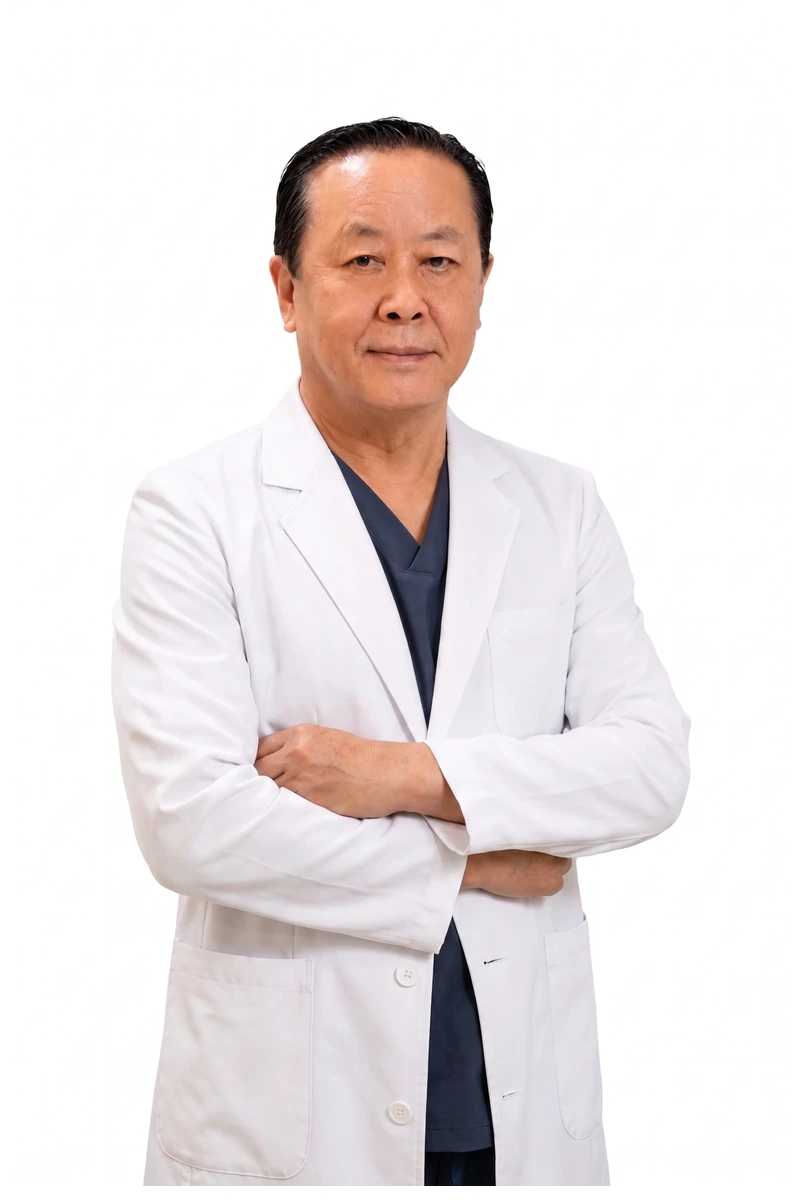
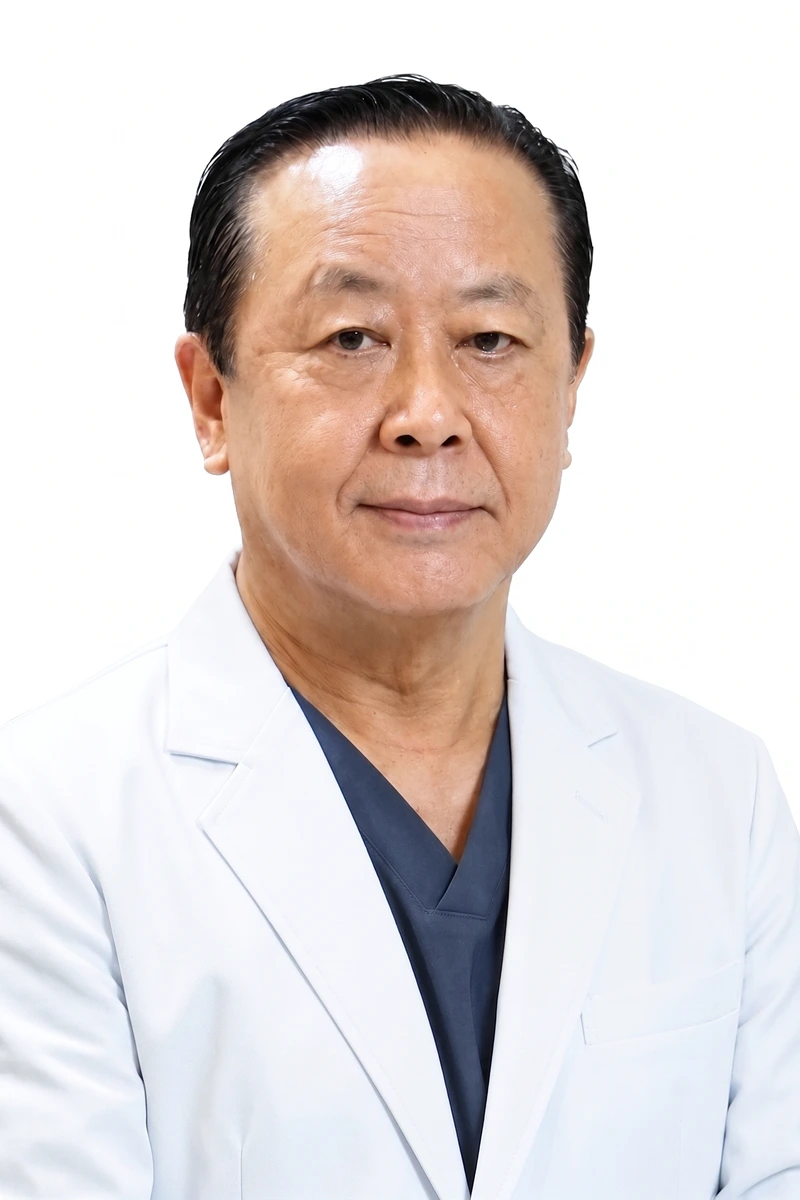
의료진 사진·영문명(Minsoo Kwon) 통일+301, 지역64p 주차·버스·조사·중복단어, 협력단체 4개 갤러리, 설치코드 점검

diff --git a/src/data/clinic.ts b/src/data/clinic.ts
@@ -297,6 +297,7 @@ export const CLINIC = {
 export type Doctor = {
   slug: string
   name: string
+  nameEn?: string   // §D1: 화면·학술 표기용 영문명 (권민수=Minsoo Kwon 논문 표기 통일)
   role: string
   titleLine: string
   specialties: string[]   // 잘하는 진료 (인링크용 treatment slug)
@@ -315,6 +316,7 @@ export const DOCTORS: Doctor[] = [
   {
     slug: 'kwon-jongjin',
     name: '권종진',
+    nameEn: 'Jongjin Kwon',
     role: '명예원장',
     titleLine: '구강악안면외과 전문의 / 치의학 박사',
     specialties: ['implant', 'surgery', 'tmj'],
@@ -343,8 +345,9 @@ export const DOCTORS: Doctor[] = [
     cardLine: '서울대학교 치의학박사 · 고려대학교 의과대학 명예교수',  // §D1: 카드 3번째 줄
   },
   {
-    slug: 'kwon-minsu',
+    slug: 'kwon-minsoo',
     name: '권민수',
+    nameEn: 'Minsoo Kwon',
     role: '대표원장',
     titleLine: '구강악안면외과 · 통합치의학과 전문의',
     specialties: ['implant', 'surgery', 'tmj'],
@@ -376,13 +379,14 @@ export const DOCTORS: Doctor[] = [
     ],
     // §B 필터: 약점(심미/라미네이트) 노출 X → 강점(수술·외과·교수경력) 리프레이밍. 철학은 자료 원문
     intro: '어려운 치료도, 환자분이 이해하고 안심할 수 있게 설명하는 것을 목표로 합니다. 구강악안면외과 전문의로서 고난도 임플란트 수술, 매복 사랑니, 턱관절 등 외과 영역에 깊이를 두고, 경희대학교 치과병원 외래교수로 후학을 가르쳐 온 경험을 진료에 녹여냅니다. 통합치의학과 전문의 관점에서 입안 전체의 상태를 함께 살펴 오래 안정적인 치료를 지향하며, 환자가 두려워하는 진료일수록 더 차분하고 정밀하게 다가가고, 필요한 경우 의식하진정법(수면치료)을 병행해 불안과 부담을 줄입니다.',
-    photo: '/static/img/kwon-minsu-profile.webp',
+    photo: '/static/img/kwon-minsoo-profile.webp',
     imgPos: 'object-position:center top',   // §M1: 얼굴검출 재크롭으로 통일 → 공통 프레이밍
     isHead: true,
   },
   {
     slug: 'bae-suhyeon',
     name: '배수현',
+    nameEn: 'Suhyeon Bae',
     role: '보철과 원장',
     titleLine: '치과보철과 전문의 / 치의학 박사',
     specialties: ['prosthetics', 'esthetic', 'denture'],
@@ -439,7 +443,7 @@ export const TREATMENTS: Treatment[] = [
     icon: 'screwdriver-wrench',
     core: true,
     keywords: ['약수역 임플란트', '신당동 임플란트', '중구 임플란트', '임플란트 재수술', '뼈이식 임플란트', '전체 임플란트', '상악동 거상술'],
-    doctors: ['kwon-minsu'],
+    doctors: ['kwon-minsoo'],
     intro: '임플란트는 단순히 나사를 심는 시술이 아니라, 잇몸뼈와 신경, 부비동, 그리고 맞물리는 치아까지 함께 읽어내는 외과적 판단의 영역입니다. 365올케어치과는 구강악안면외과 전문의가 직접 진단과 수술을 맡아, 뼈가 부족하거나 신경에 가까운 까다로운 케이스에서도 무리한 진행 대신 정밀한 계획을 우선합니다.',
     sections: [
       { h: '왜 전문의 임플란트인가', p: '임플란트의 성패는 식립 그 자체보다 식립 이전의 진단에서 갈립니다. 잇몸뼈의 양과 질, 하치조신경과의 거리, 상악동(부비동)의 위치를 입체적으로 파악해야 안전한 식립이 가능합니다. 365올케어치과는 구강악안면외과 전문의가 진단·수술·보철의 전 과정을 일관되게 책임지며, 외과적으로 난도가 높은 케이스도 단계적으로 접근합니다.' },
@@ -486,7 +490,7 @@ export const TREATMENTS: Treatment[] = [
     icon: 'teeth',
     core: true,
     keywords: ['약수역 교정', '신당동 치아교정', '중구 교정치과', '투명교정', '성인교정'],
-    doctors: ['kwon-minsu'],
+    doctors: ['kwon-minsoo'],
     intro: '교정은 치아를 가지런히 하는 것을 넘어, 위아래 턱이 바르게 맞물려 잘 씹고 오래 건강하게 쓰도록 만드는 과정입니다. 365올케어치과는 단순히 보이는 부분만이 아니라 교합과 기능, 잇몸 건강까지 함께 고려해 환자에게 맞는 교정 방법을 제안합니다. 약수역 5번 출구에서 도보 1분 거리에서, 성장기 아이부터 성인까지 진단부터 유지관리까지 한곳에서 이어갑니다.',
     sections: [
       { h: '진단이 먼저입니다', p: '같은 덧니라도 원인은 다릅니다. 위아래 턱뼈의 크기·위치 차이에서 온 골격성 문제인지, 치아가 들어설 공간이 부족한 배열의 문제인지, 혀를 내미는 습관이나 입으로 숨 쉬는 버릇에서 비롯된 것인지를 엑스레이·3D 영상과 모형으로 정확히 파악한 뒤에야 올바른 계획이 나옵니다. 무작정 장치를 붙이기보다, 왜 이렇게 되었는지와 어디까지 개선할 수 있는지를 먼저 설명드립니다.' },
@@ -573,7 +577,7 @@ export const TREATMENTS: Treatment[] = [
     icon: 'moon',
     core: true,
     keywords: ['약수역 수면치과', '수면진료', '공포 치과진료', '구역반사 치과'],
-    doctors: ['kwon-minsu'],
+    doctors: ['kwon-minsoo'],
     // §N8(수면사고 이슈 대응): '잠든 사이 마친다'식 표현 배제 → 사전 문진·전신 스크리닝·응급 대응 장비(AED)·전문의 상시 확인 강조로 보수적 정정
     intro: '치과에 대한 두려움이 크거나, 구역반사가 심하거나, 한 번에 긴 진료가 필요한 경우 수면진료(의식하진정)가 도움이 됩니다. 365올케어치과는 사전 문진과 전신 상태 스크리닝을 거친 뒤 진행하며, 진정 진료 전용 세팅과 응급 대응 장비(AED·응급키트)를 상시 갖추고 있습니다. 약수역 5번 출구 인근에서 구강악안면외과 전문의가 진료 중 환자의 상태를 직접 확인합니다.',
     sections: [
@@ -613,7 +617,7 @@ export const TREATMENTS: Treatment[] = [
     icon: 'face-grimace',
     core: false,
     keywords: ['약수역 턱관절', '턱관절 치료', '턱에서 소리', '관절강내 주사'],
-    doctors: ['kwon-minsu'],
+    doctors: ['kwon-minsoo'],
     intro: '턱에서 소리가 나거나, 통증이 있거나, 입이 잘 벌어지지 않는 턱관절 질환은 원인이 다양합니다. 365올케어치과는 약수역 인근에서 구강악안면외과 전문의가 원인을 진단하고, 생활 습관 교정부터 장치 치료, 필요 시 관절강내 주사까지 무리하지 않고 단계적으로 접근합니다.',
     sections: [
       { h: '원인을 먼저 찾습니다', p: '턱관절 증상은 이갈이, 이악물기, 한쪽으로만 씹는 습관, 거북목 등의 자세, 스트레스, 외상 등 여러 요인이 얽혀 나타납니다. 같은 "턱 통증"이라도 근육의 문제인지 관절 자체의 문제인지에 따라 접근이 달라집니다. 그래서 365올케어치과는 무리한 처치를 서두르기보다 증상의 양상과 생활 습관을 함께 살펴 원인을 파악하는 것을 먼저로 둡니다.' },
@@ -650,7 +654,7 @@ export const TREATMENTS: Treatment[] = [
     icon: 'tooth',
     core: false,
     keywords: ['약수역 충치치료', '신경치료', '약수역 치과', '충치'],
-    doctors: ['kwon-minsu'],
+    doctors: ['kwon-minsoo'],
     intro: '충치와 신경치료는 자연치아를 최대한 살리는 보존 진료의 핵심입니다. 365올케어치과는 약수역 인근에서 통합치의학과 전문의가 충치의 깊이를 정확히 진단해 과하지 않게, 그러나 놓치지 않게 치료합니다. 한 분의 입안을 하나의 그림으로 보며, 지금 필요한 치료와 지켜봐도 되는 부분을 함께 안내합니다.',
     sections: [
       { h: '자연치아가 우선입니다', p: '아무리 좋은 보철도 건강한 자연치아만 못합니다. 그래서 발치나 큰 치료를 서두르기보다, 살릴 수 있는 치아를 먼저 살리는 것을 원칙으로 둡니다. 충치의 진행 정도와 신경까지의 거리, 치아의 남은 구조를 정확히 판단해 필요한 만큼만 삭제하고 보존합니다. 과잉 진료 없이, 그러나 놓치면 더 커질 문제는 분명히 짚어 드립니다.' },
@@ -687,7 +691,7 @@ export const TREATMENTS: Treatment[] = [
     icon: 'shield-halved',
     core: false,
     keywords: ['약수역 잇몸치료', '치주치료', '잇몸 붓기', '풍치'],
-    doctors: ['kwon-minsu'],
+    doctors: ['kwon-minsoo'],
     intro: '잇몸 질환(치주염)은 치아를 잃는 주요 원인이지만 초기에는 증상이 뚜렷하지 않습니다. 365올케어치과는 약수역 인근에서 통합치의학과 전문의가 잇몸 상태를 점검하고, 정기적인 관리와 단계에 맞는 치료로 자연치아를 오래 쓰도록 돕습니다. 잇몸은 치아를 지탱하는 토대인 만큼, 미리 챙기는 것이 가장 효율적인 치료입니다.',
     sections: [
       { h: '소리 없이 진행됩니다', p: '잇몸 질환의 가장 큰 특징은 통증 없이 서서히 진행된다는 점입니다. 잇몸 표면의 가벼운 염증(치은염)에서 시작해, 치아를 지지하는 잇몸뼈가 녹는 치주염으로 진행되어도 한참 동안 뚜렷한 증상이 없는 경우가 많습니다. 그래서 "아프지 않으니 괜찮다"고 여기다 뼈가 상당히 녹은 뒤에야 발견되기도 합니다. 정기 검진과 스케일링으로 미리 관리하는 것이 중요한 이유입니다.' },
@@ -799,7 +803,7 @@ export const TREATMENTS: Treatment[] = [
     icon: 'syringe',
     core: false,
     keywords: ['약수역 사랑니', '사랑니 발치', '매복 사랑니', '구강외과'],
-    doctors: ['kwon-minsu'],
+    doctors: ['kwon-minsoo'],
     intro: '누워 있는 매복 사랑니, 신경에 가까운 사랑니 등 외과적 판단이 필요한 발치는 구강악안면외과 전문의가 안전하게 진행합니다. 발치뿐 아니라 잇몸·뼈와 관련된 작은 외과 처치, 낭종 같은 병변까지 전문의가 영상으로 신경·혈관과의 거리를 확인한 뒤 정밀하게 접근합니다. 약수역 5번 출구 1분 거리에서, 무섭게 느껴지는 외과 진료를 차근차근 설명하며 진행합니다.',
     sections: [
       { h: '전문의 발치의 안정감', p: '매복 사랑니는 아래쪽 신경(하치조신경)이나 위쪽 부비동에 가까운 경우가 많아, 잘못 접근하면 신경 손상이나 감각 저하 위험이 있습니다. 그래서 발치 전 파노라마·필요 시 3D CT 영상으로 사랑니와 신경·혈관의 위치 관계를 정확히 파악하는 것이 중요합니다. 구강악안면외과 전문의가 영상 분석으로 안전을 먼저 확인한 뒤, 치아를 무리하게 빼지 않고 필요한 만큼 나누어 부담을 줄이는 방식으로 진행합니다.' },
@@ -1000,7 +1004,7 @@ export type SeoArea = {
 
 export const SEO_AREAS: SeoArea[] = [
   // ── tier 1 : 약수역 도보·생활권 ──
-  { slug: 'yaksu',      name: '약수역',   adminArea: '서울특별시 중구 신당동',   transit: '3·6호선 약수역 5번 출구 도보 1분', access: '도보 1분 거리', tier: 1 },
+  { slug: 'yaksu',      name: '약수역',   adminArea: '서울특별시 중구 신당동',   transit: '3·6호선 약수역 5번 출구 도보 1분', access: '도보 1분', tier: 1 },
   { slug: 'sindang',    name: '신당동',   adminArea: '서울특별시 중구 신당동',   transit: '6호선 신당역에서 한 정거장',        access: '지하철 1정거장 · 약 5분', tier: 1 },
   { slug: 'cheonggu',   name: '청구동',   adminArea: '서울특별시 중구 청구동',   transit: '5·6호선 청구역에서 한 정거장',      access: '지하철 1정거장 · 약 5분', tier: 1 },
   { slug: 'jangchung',  name: '장충동',   adminArea: '서울특별시 중구 장충동',   transit: '약수역에서 차량 5분 · 버스 직행',   access: '차량 5분', tier: 1 },

diff --git a/src/routes/seo.ts b/src/routes/seo.ts
@@ -48,7 +48,7 @@ export async function sitemap(env: Bindings): Promise<string> {
     img: [{ url: `${BASE}/og/treatment/${t.slug}.svg`, title: `${t.name} - ${CLINIC.name}` }],
   }))
   // 의료진 (사진 포함)
-  ;['kwon-minsu', 'kwon-jongjin', 'bae-suhyeon'].forEach(s => urls.push({
+  ;['kwon-minsoo', 'kwon-jongjin', 'bae-suhyeon'].forEach(s => urls.push({
     loc: `/doctors/${s}`, pri: '0.7', freq: 'monthly',
     img: [{ url: `${BASE}/static/img/${s}.webp` }],
   }))
@@ -272,6 +272,26 @@ ${TREATMENTS.map(t => `- [${t.name}](${BASE}/treatments/${t.slug})`).join('\n')}
 }
 
 // ════════════════ 지역 SEO 페이지 /area/:combo ════════════════
+// ── 한국어 조사 자동 처리 (§지역페이지 1차: '을/를' 오류 일괄 수정) ──
+// 마지막 글자 받침 유무로 을/를 판별. 임플란트·치아교정·심미보철=받침○→을, 수면진료=받침✕→를
+function eulReul(word: string): '을' | '를' {
+  const last = word.charCodeAt(word.length - 1)
+  if (last < 0xac00 || last > 0xd7a3) return '를' // 한글 아니면 기본 '를'
+  return (last - 0xac00) % 28 === 0 ? '를' : '을'
+}
+// '거리' 중복 방지: area.access 값이 이미 '거리'로 끝나면 '거리'를 덧붙이지 않음
+function withGeori(access: string): string {
+  return /거리$/.test(access.trim()) ? access : `${access} 거리`
+}
+// '진료' 중복 방지: tx.name이 '진료'로 끝나면(수면진료) '진료' 표현 대신 '를 함께 봅니다'
+function txClause(txName: string): string {
+  return /진료$/.test(txName) ? `${txName}${eulReul(txName)} 함께 봅니다` : `${txName} 진료를 협진합니다`
+}
+// '수면진료 진료' 같은 '진료 진료' 중복 방지 — 뒤에 '진료' 붙일 때 사용
+function txWithJinryo(txName: string): string {
+  return /진료$/.test(txName) ? txName : `${txName} 진료`
+}
+
 export function AreaPage(combo: string) {
   // combo = "yaksu-implant"
   const parts = combo.split('-')
@@ -287,8 +307,11 @@ export function AreaPage(combo: string) {
   // 지역 특화 FAQ (AEO — 로컬 검색 질문 대응)
   const areaFaqs = [
     { q: `${area.name}에서 365올케어치과까지 어떻게 가나요?`, a: `${area.transit} 위치이며, ${area.name} 기준 ${area.access}입니다. 서울 중구 동호로 171 더그레이스빌딩 4층(약수역 5번 출구 스타벅스 건물)입니다.` },
-    { q: `${area.name}에서 가까운 ${tx.name} 치과를 찾고 있어요.`, a: `약수역 365올케어치과는 ${area.name}에서 ${area.access} 거리로, 구강악안면외과·치과보철과·통합치의학과 전문의가 ${tx.name} 진료를 협진합니다. 예약 문의는 ${CLINIC.phone}.` },
-    { q: `직장인인데 ${area.name} 근처에서 야간에 ${tx.name} 진료가 가능한가요?`, a: `네, 365올케어치과는 월·화·목요일 저녁 20:30까지 야간진료를 운영합니다. ${area.name}에서 퇴근 후 내원하시기 편리합니다.` },
+    { q: `${area.name}에서 가까운 ${tx.name} 치과를 찾고 있어요.`, a: `약수역 365올케어치과는 ${area.name}에서 ${withGeori(area.access)}로, 구강악안면외과·치과보철과·통합치의학과 전문의가 ${txClause(tx.name)}. 예약 문의는 ${CLINIC.phone}.` },
+    { q: `직장인인데 ${area.name} 근처에서 야간에 ${txWithJinryo(tx.name)}가 가능한가요?`, a: `네, 365올케어치과는 월·화·목요일 저녁 20:30까지 야간진료를 운영합니다. ${area.name}에서 퇴근 후 내원하시기 편리합니다.` },
+    // §지역페이지 1차: 주차 안내 FAQ 공통 추가
+    { q: '차를 가지고 가도 주차할 수 있나요?', a: '네, 건물 뒤편 무료 주차장을 이용하실 수 있습니다. 다만 자주식과 기계식이 함께 있어 대형 세단이나 큰 SUV는 자리가 맞지 않을 수 있습니다. 이 경우 인근 공영주차장을 이용해 주시면 됩니다. 평일 낮에는 주차 관리자가 도와드리고, 야간과 주말, 공휴일에는 직접 주차하시게 됩니다.' },
+    { q: '야간진료나 주말에도 주차가 되나요?', a: '주차는 가능합니다. 다만 야간과 주말, 공휴일에는 주차 관리자가 없어 직접 주차하셔야 하며, 차량이 크신 경우 인근 공영주차장이 더 편할 수 있습니다.' },
     ...(tx.faqs && tx.faqs.length ? [{ q: tx.faqs[0].q, a: tx.faqs[0].a }] : []),
   ]
 
@@ -304,7 +327,7 @@ export function AreaPage(combo: string) {
     '@type': 'MedicalWebPage',
     name: `${area.name} ${tx.name} - ${CLINIC.name}`,
     url: pageUrl,
-    description: `${area.name} 인근 ${tx.name} 진료 안내 — 약수역 365올케어치과`,
+    description: `${area.name} 인근 ${txWithJinryo(tx.name)} 안내 — 약수역 365올케어치과`,
     about: { '@type': 'AdministrativeArea', name: area.adminArea },
     mainEntity: {
       '@type': 'MedicalProcedure',
@@ -326,7 +349,7 @@ export function AreaPage(combo: string) {
   ${PageHero({
     crumb,
     title: `${area.name} ${tx.name}`,
-    desc: `${area.name}에서 ${area.access}, 약수역 365올케어치과에서 ${tx.name}을(를) 안내해 드립니다.`,
+    desc: `${area.name}에서 ${area.access}, 약수역 365올케어치과에서 ${tx.name}${eulReul(tx.name)} 안내해 드립니다.`,
   })}
   <section class="section">
     <div class="container">
@@ -338,12 +361,23 @@ export function AreaPage(combo: string) {
           <p>${tx.intro}</p>
 
           <h2>${area.name}에서 365올케어치과 오시는 길</h2>
-          <p><strong>${area.transit}</strong> — ${area.name} 기준 약 ${area.access} 거리입니다. 주소는 ${CLINIC.address}(${CLINIC.directions})입니다.</p>
+          <p><strong>${area.transit}</strong> — ${area.name} 기준 약 ${withGeori(area.access)}입니다. 주소는 ${CLINIC.address}(${CLINIC.directions})입니다.</p>
           <ul class="check">
             <li>3·6호선 약수역 5번 출구 도보 1분 — 더블 역세권으로 ${area.name}에서 환승·직통 접근 용이</li>
             <li>분야별 전문의가 진단부터 마무리까지 함께 살피는 협진</li>
             <li>원내 기공실(상주 기공사)과 의식하진정법(수면치료) 세팅을 갖춘 진료 환경</li>
             <li>월·화·목 야간진료(20:30까지)로 ${area.name} 직장인도 편하게 내원 가능</li>
+          </ul>
+
+          <h3><i class="fa-solid fa-square-parking text-mint"></i> 주차 안내</h3>
+          <p>건물 뒤편에 <strong>무료 주차장</strong>이 있습니다. 자주식과 기계식이 함께 있어 자리에 따라 차량 크기 제한이 있습니다. 대형 세단이나 큰 SUV는 주차가 어려울 수 있으니, 차량이 크신 경우 인근 공영주차장을 이용하시면 편합니다. 평일 낮에는 주차 관리자가 상주해 안내를 도와드리며, 야간 진료 시간과 주말·공휴일에는 관리자가 없어 직접 주차하셔야 합니다.</p>
+
+          <h3><i class="fa-solid fa-bus text-mint"></i> 버스 안내</h3>
+          <p>버스는 <strong>147번</strong>과 <strong>301번</strong>이 약수역 5번 출구(병원 앞)와 4번 출구 정류장에 섭니다. 5번 출구에서는 내리신 자리에서 병원 건물까지 도보 1분 내외입니다. 마을버스는 <strong>성동05번</strong>과 <strong>성동12번</strong>이 약수역 주변(약수지구대·약수시장 방면) 정류장에 섭니다.</p>
+          <ul class="check">
+            <li><strong>약수역 5번 출구</strong>(금호터널입구, 병원 앞·도보 1분 내외) — 147, 301</li>
+            <li>약수역 4번 출구(금호터널입구, 길 건너편) — 147, 301</li>
+            <li>마을버스(약수역 주변, 약수지구대·약수시장 방면) — 성동05, 성동12</li>
           </ul>
 
           ${tx.sections[0] ? html`<h2>${tx.sections[0].h}</h2><p>${tx.sections[0].p}</p>` : ''}
@@ -374,7 +408,7 @@ export function AreaPage(combo: string) {
   </section>`
   return Page({
     title: `${area.name} ${tx.name} | 약수역 ${tx.name} 치과 - 365올케어치과`,
-    description: `${area.name} ${tx.name}을(를) 찾으신다면 약수역 365올케어치과. ${area.transit}, ${area.access}. ${tx.short} 치과 전문의 협진, 원내 기공실, 야간진료.`,
+    description: `${area.name} ${tx.name}${eulReul(tx.name)} 찾으신다면 약수역 365올케어치과. ${area.transit}, ${area.access}. ${tx.short} 치과 전문의 협진, 원내 기공실, 야간진료.`,
     path: `/area/${combo}`,
     ogImage: `${BASE}/og/area/${combo}.svg`,
     schema: [bc, localSchema, areaSchema, faqLd, speakableSchema()],

diff --git a/src/data/story.ts b/src/data/story.ts
@@ -38,7 +38,7 @@ export const STORY_BRANCHES: StoryBranch[] = [
     guide: '구강악안면외과 전문의가 뼈·신경 상태를 입체적으로 진단한 뒤, 무리 없는 계획부터 세웁니다.',
     treatment: 'implant',
     treatmentName: '임플란트',
-    doctor: 'kwon-minsu',
+    doctor: 'kwon-minsoo',
     doctorName: '권민수 대표원장',
     faq: { q: '뼈가 없다고 다른 곳에서 거절당했어요.', a: '뼈가 부족한 경우에도 골이식이나 상악동 거상 등으로 식립을 검토할 수 있습니다. 영상 진단으로 가능 여부를 함께 살펴봅니다.' },
   },
@@ -50,7 +50,7 @@ export const STORY_BRANCHES: StoryBranch[] = [
     guide: '구강악안면외과 전문의가 망가진 임플란트·염증 병소를 정리하고, 뼈 상태부터 회복시키는 단계적 재건을 계획합니다.',
     treatment: 'implant',
     treatmentName: '임플란트 재수술',
-    doctor: 'kwon-minsu',
+    doctor: 'kwon-minsoo',
     doctorName: '권민수 대표원장',
     faq: { q: '실패한 임플란트도 다시 할 수 있나요?', a: '기존 임플란트 실패, 부러진 픽스처, 주변 염증이 있어도 제거와 회복을 거쳐 재수술을 검토할 수 있습니다. 정밀 진단 후 단계적으로 계획합니다.' },
   },
@@ -62,7 +62,7 @@ export const STORY_BRANCHES: StoryBranch[] = [
     guide: '골격·배열·습관 중 원인이 무엇인지부터 진단하고, 일상에 맞는 장치를 함께 고릅니다.',
     treatment: 'ortho',
     treatmentName: '치아교정',
-    doctor: 'kwon-minsu',
+    doctor: 'kwon-minsoo',
     doctorName: '권민수 대표원장',
     faq: { q: '성인인데 교정이 너무 늦진 않았나요?', a: '교정에 나이 제한은 없습니다. 잇몸이 건강하다면 성인도 충분히 가능하며, 잇몸 상태를 함께 관리하며 진행합니다.' },
   },
@@ -86,7 +86,7 @@ export const STORY_BRANCHES: StoryBranch[] = [
     guide: '원인(습관·자세·스트레스)을 먼저 찾고, 생활 교정부터 장치 치료까지 단계적으로 접근합니다.',
     treatment: 'tmj',
     treatmentName: '턱관절 치료',
-    doctor: 'kwon-minsu',
+    doctor: 'kwon-minsoo',
     doctorName: '권민수 대표원장',
     faq: { q: '턱에서 소리가 나는데 꼭 치료해야 하나요?', a: '통증이나 개구장애가 없다면 경과를 지켜볼 수 있습니다. 통증이 함께 있다면 진단을 받아보시는 것이 좋습니다.' },
   },
@@ -98,7 +98,7 @@ export const STORY_BRANCHES: StoryBranch[] = [
     guide: '매복 정도와 신경과의 거리를 영상으로 먼저 확인합니다. 외과 전문의가 안전을 우선해 진행합니다.',
     treatment: 'surgery',
     treatmentName: '구강외과·사랑니',
-    doctor: 'kwon-minsu',
+    doctor: 'kwon-minsoo',
     doctorName: '권민수 대표원장',
     faq: { q: '사랑니는 꼭 빼야 하나요?', a: '바르게 나서 기능하고 관리가 잘 되면 둘 수 있으나, 충치·염증·매복이 있으면 발치를 권합니다.' },
   },
@@ -122,7 +122,7 @@ export const STORY_BRANCHES: StoryBranch[] = [
     guide: '수면진료 세팅을 갖추고, 컨디션을 먼저 확인한 뒤 통증을 최소화하는 방향으로 설계합니다. (적용 여부는 상담으로 결정)',
     treatment: 'sleep',
     treatmentName: '수면진료',
-    doctor: 'kwon-minsu',
+    doctor: 'kwon-minsoo',
     doctorName: '권민수 대표원장',
     faq: { q: '수면진료는 누구나 받을 수 있나요?', a: '대부분 가능하지만 전신 상태에 따라 제한될 수 있어, 상담을 통해 적용 가능 여부를 반드시 판단합니다.' },
   },

diff --git a/src/pages/static-pages.ts b/src/pages/static-pages.ts
@@ -7,6 +7,14 @@ import { speakableSchema } from '../lib/seo-engine'
 const BASE = `https://${CLINIC.domain}`
 const DAY_CODE: Record<string, string> = { '월': 'Monday', '화': 'Tuesday', '수': 'Wednesday', '목': 'Thursday', '금': 'Friday', '토': 'Saturday', '일': 'Sunday' }
 
+// 협력 및 후원단체 — 상대측 얼굴은 개인정보 보호를 위해 모자이크 처리됨
+const PARTNER_ORGS = [
+  { name: '약수시장상인회', img: '/static/img/partner-yaksu-market.jpg', caption: '상호협력 발전을 위한 업무협약', alt: '365올케어치과 - 약수시장상인회 업무협약식, 권민수 대표원장이 상인회 측과 상호협력 협약서를 든 모습(상대측 얼굴 모자이크 처리)' },
+  { name: '다온봉사단', img: '/static/img/partner-daon.jpg', caption: '의료서비스 지원 협약', alt: '365올케어치과 - 다온봉사단 의료서비스 지원 협약식(상대측 얼굴 모자이크 처리)' },
+  { name: '약수동주민센터', img: '/static/img/partner-community-center.jpg', caption: '취약계층 의료서비스 지원 협약', alt: '365올케어치과 - 약수동주민센터 취약계층 의료서비스 지원 협약식(상대측 얼굴 모자이크 처리)' },
+  { name: '중구산악회', img: '/static/img/partner-junggu-alpine.jpg', caption: '지역 단체 의료서비스 지원 협약', alt: '365올케어치과 - 중구산악회 의료서비스 지원 협약식(상대측 얼굴 모자이크 처리)' },
+]
+
 // 진료시간 → openingHoursSpecification 변환 (요일별 1줄 포맷: '월요일' / '09:30 - 20:30')
 function openingHoursSpec() {
   return CLINIC.hours
@@ -179,7 +187,20 @@ export function MissionPage() {
         <img src="/static/img/yaksu-mou-sign.webp" alt="365올케어치과 - 약수상인회 업무협약식 — 권민수 대표원장이 상인회 대표와 상호협력 협약서에 서명하는 모습" width="1024" height="683" loading="lazy">
         <figcaption><i class="fa-solid fa-handshake" style="color:var(--gold-300);margin-right:8px"></i>2024.11.13 · 약수상인회 업무협약식 — 동네 상권과 상호협력을 약속했습니다</figcaption>
       </figure>
-      <div class="yaksu-copy reveal reveal-d1">
+
+      <!-- 협력 및 후원단체 갤러리 (4개 단체) — 상대측 얼굴은 개인정보 보호를 위해 모자이크 처리 -->
+      <div class="partner-grid reveal reveal-d1">
+        ${raw(PARTNER_ORGS.map(p => `
+        <figure class="partner-item">
+          <div class="partner-photo"><img src="${p.img}" alt="${p.alt}" width="800" height="600" loading="lazy"></div>
+          <figcaption>
+            <strong>${p.name}</strong>
+            <span>${p.caption}</span>
+          </figcaption>
+        </figure>`).join(''))}
+      </div>
+
+      <div class="yaksu-copy reveal reveal-d2">
         <h3 class="yaksu-copy-head">지역과 함께 걸어온 치과</h3>
         <p>365올케어치과는 개원 초부터 약수시장상인회와 협약을 맺고,<br class="br-pc"> 지역 상권과 주민들의 곁을 지켜왔습니다.<br class="br-pc"> 약수동주민센터, 다온봉사단, 중구 산악회 등 여러 지역 단체와도 꾸준히 함께해 왔습니다.</p>
         <p>잠깐 스쳐가는 병원이 아니라, 동네에 뿌리내리고 오래 머무는 치과.<br class="br-pc"> 그 자리를 지키는 것이 저희가 지역에 보답하는 방식이라 믿습니다.</p>

diff --git a/src/pages/column.ts b/src/pages/column.ts
@@ -190,7 +190,7 @@ export const SEED_COLUMNS: Column[] = [
   {
     id: 'c_seed1', slug: 'implant-bone-graft', title: '뼈가 부족해도 임플란트가 가능할까요?',
     excerpt: '다른 곳에서 뼈가 부족하다는 말을 들으셨다면, 골이식과 상악동 거상에 대해 알아두시면 도움이 됩니다.',
-    category: 'implant', author: 'kwon-minsu', published: true,
+    category: 'implant', author: 'kwon-minsoo', published: true,
     body: `<p>임플란트 상담을 받다 보면 "뼈가 부족해서 어렵다"는 말을 듣고 돌아서는 분들이 계십니다. 하지만 잇몸뼈가 부족하다고 해서 임플란트를 포기해야 하는 것은 아닙니다.</p>
 <h2>왜 뼈가 부족해지나요?</h2>
 <p>치아가 빠진 자리는 시간이 지나면서 잇몸뼈가 점점 흡수됩니다. 또한 잇몸 질환(치주염)이 오래 진행되었거나, 윗턱 어금니 부위는 상악동(부비동)이 가까워 식립에 필요한 뼈가 얕은 경우가 많습니다.</p>
@@ -205,7 +205,7 @@ export const SEED_COLUMNS: Column[] = [
   {
     id: 'c_seed2', slug: 'ortho-adult-timing', title: '성인 교정, 지금 시작해도 늦지 않을까요?',
     excerpt: '교정에 나이 제한은 없습니다. 다만 성인 교정에서 꼭 챙겨야 할 것이 있습니다.',
-    category: 'ortho', author: 'kwon-minsu', published: true,
+    category: 'ortho', author: 'kwon-minsoo', published: true,
     body: `<p>"이 나이에 교정해도 될까요?" 진료실에서 정말 자주 받는 질문입니다. 결론부터 말씀드리면, 교정에 나이 제한은 없습니다.</p>
 <h2>성인 교정의 장점</h2>
 <p>성인은 치료의 필요성을 스스로 이해하고 협조도가 높아, 오히려 계획대로 진행되는 경우가 많습니다. 직장 생활 중에도 눈에 덜 띄는 투명교정이나 세라믹 교정을 선택할 수 있습니다.</p>

diff --git a/public/static/style.css b/public/static/style.css
@@ -648,6 +648,34 @@ em, i, cite, var, address, .italic, .hh-italic, .disp, .eng,
 }
 .yaksu-copy p:last-child { margin-bottom: 0; }
 
+/* ── 협력 및 후원단체 갤러리 (4개 단체) ── */
+.partner-grid {
+  display: grid; grid-template-columns: repeat(4, 1fr);
+  gap: clamp(12px, 1.6vw, 20px); margin: clamp(24px, 3vw, 36px) auto 0; max-width: 1100px;
+}
+.partner-item {
+  margin: 0; background: rgba(255,254,238,.04);
+  border: 1px solid rgba(214,178,122,.22); border-radius: 12px; overflow: hidden;
+}
+.partner-photo { aspect-ratio: 4/3; overflow: hidden; background: rgba(0,0,0,.15); }
+.partner-photo img {
+  width: 100%; height: 100%; object-fit: cover; object-position: center;
+  display: block; transition: transform .5s ease;
+}
+.partner-item:hover .partner-photo img { transform: scale(1.04); }
+.partner-item figcaption { padding: 12px 14px 14px; text-align: center; }
+.partner-item figcaption strong {
+  display: block; color: var(--gold-300, #d6b27a);
+  font-size: clamp(14px, 1.4vw, 15.5px); font-weight: 700; margin-bottom: 4px;
+}
+.partner-item figcaption span {
+  display: block; color: rgba(255,254,238,.62);
+  font-size: clamp(11.5px, 1.1vw, 12.5px); line-height: 1.5;
+}
+@media (max-width: 768px) {
+  .partner-grid { grid-template-columns: repeat(2, 1fr); gap: 10px; }
+}
+
 /* ============================================================
    §4 3인 협진 통합진료 — flow + 카드
    ============================================================ */

diff --git a/src/pages/doctors.ts b/src/pages/doctors.ts
@@ -66,6 +66,7 @@ export function DoctorDetail(slug: string) {
     '@type': ['Physician', 'Person'],
     '@id': `${pageUrl}#physician`,
     name: d.name,
+    ...(d.nameEn ? { alternateName: d.nameEn } : {}),
     jobTitle: `${d.role} / ${d.titleLine}`,
     description: d.intro,
     url: pageUrl,
@@ -97,7 +98,8 @@ export function DoctorDetail(slug: string) {
             <div class="doc-photo" style="border-radius:var(--radius-lg);box-shadow:var(--shadow);aspect-ratio:4/4.6;overflow:hidden"><img src="${d.photo}" alt="${d.name} ${d.role}" style="width:100%;height:100%;object-fit:cover;${d.imgPos || 'object-position:top center'}"></div>
             <div>
               <span class="role" style="color:var(--brand-accent);font-weight:700">${d.role}</span>
-              <h2 style="font-size:2rem;margin:6px 0 4px">${d.name}</h2>
+              <h2 style="font-size:2rem;margin:6px 0 2px">${d.name}</h2>
+              ${d.nameEn ? html`<p style="color:var(--gold-600);font-size:.9rem;letter-spacing:.02em;font-weight:600;margin:0 0 8px">${d.nameEn}</p>` : ''}
               <p style="color:var(--gray-600);font-size:1.05rem;margin-bottom:20px">${d.titleLine}</p>
               <p style="font-size:12px;letter-spacing:.1em;text-transform:uppercase;color:var(--gold-600);font-weight:700;margin-bottom:10px">진료과목</p>
               <div class="doc-tags">

diff --git a/src/components/layout.ts b/src/components/layout.ts
@@ -380,7 +380,7 @@ export function headTags(meta: Meta) {
     <link rel="preconnect" href="https://fonts.gstatic.com" crossorigin />
     ${meta.preloadImage ? raw(`<link rel="preload" as="image" href="${meta.preloadImage}" fetchpriority="high" />`) : ''}
     <!-- 본문 CSS는 렌더 차단 없이 우선 적용 -->
-    <link rel="stylesheet" href="/static/style.css?v=20260820b" />
+    <link rel="stylesheet" href="/static/style.css?v=20260822a" />
     <!-- 한글 동적 서브셋(Pretendard): 실제 사용 글자만 로드 → 4MB→수십KB -->
     <link rel="stylesheet" as="style" crossorigin href="https://cdn.jsdelivr.net/gh/orioncactus/pretendard@v1.3.9/dist/web/variable/pretendardvariable-dynamic-subset.min.css" />
     <!-- 디스플레이/명조/모노: display=swap 으로 FOIT 방지 -->

diff --git a/src/index.tsx b/src/index.tsx
@@ -111,6 +111,7 @@ app.get('/treatments/:slug', (c) => {
 const DOCTOR_SLUG_REDIRECTS: Record<string, string> = {
   'doctor-integrated': 'kwon-jongjin', // 통합치의학과 placeholder → 권종진 명예원장
   'doctor-prostho': 'bae-suhyeon',     // 보철과 placeholder → 배수현 보철과 원장
+  'kwon-minsu': 'kwon-minsoo',         // 영문 표기 통일(Minsoo Kwon) → 구 URL 검색 색인 보호용 301
 }
 app.get('/doctors', (c) => c.html(DoctorsIndex().toString()))
 app.get('/doctors/:slug', (c) => {
